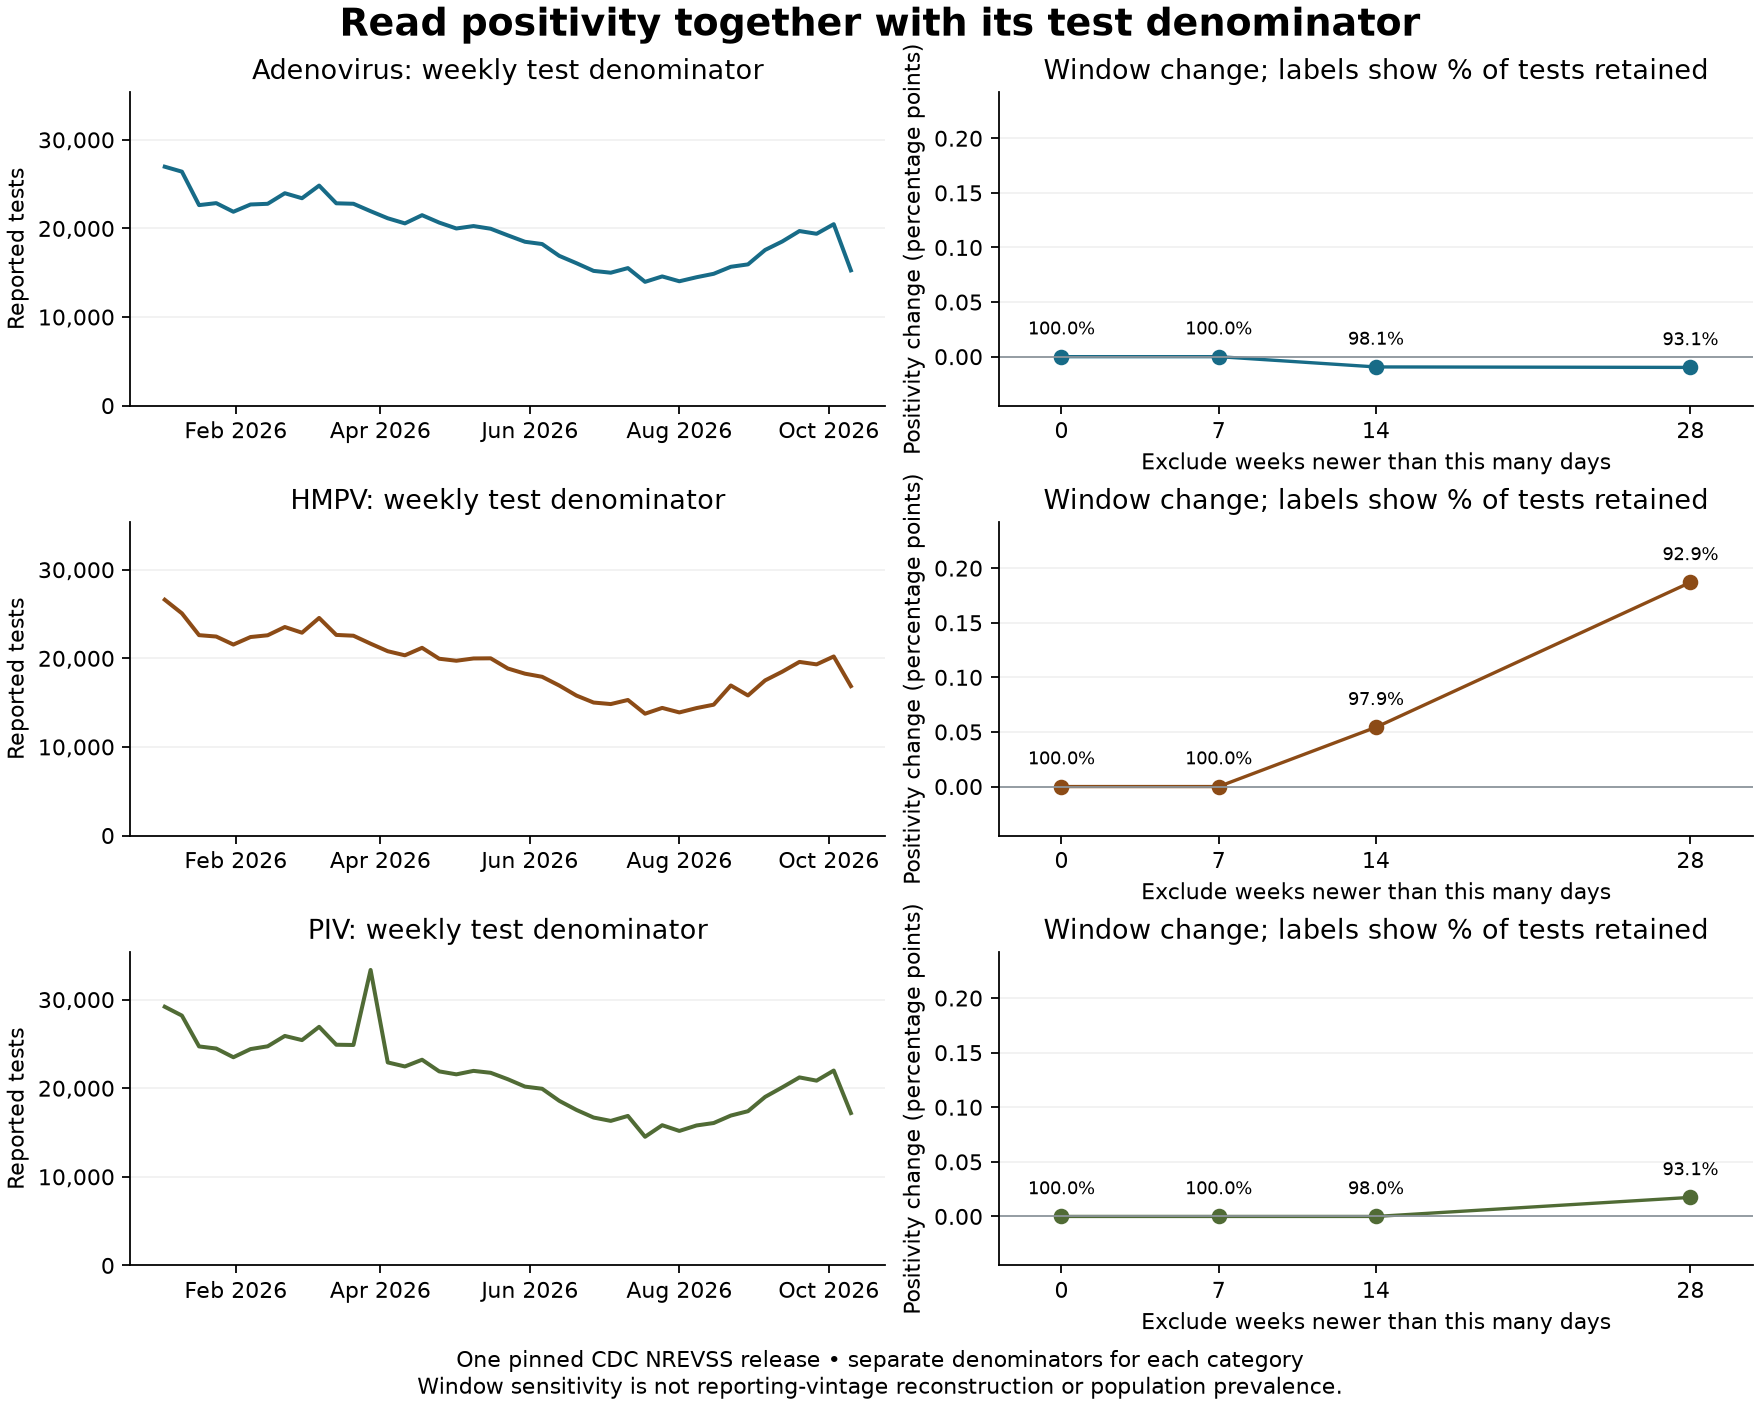
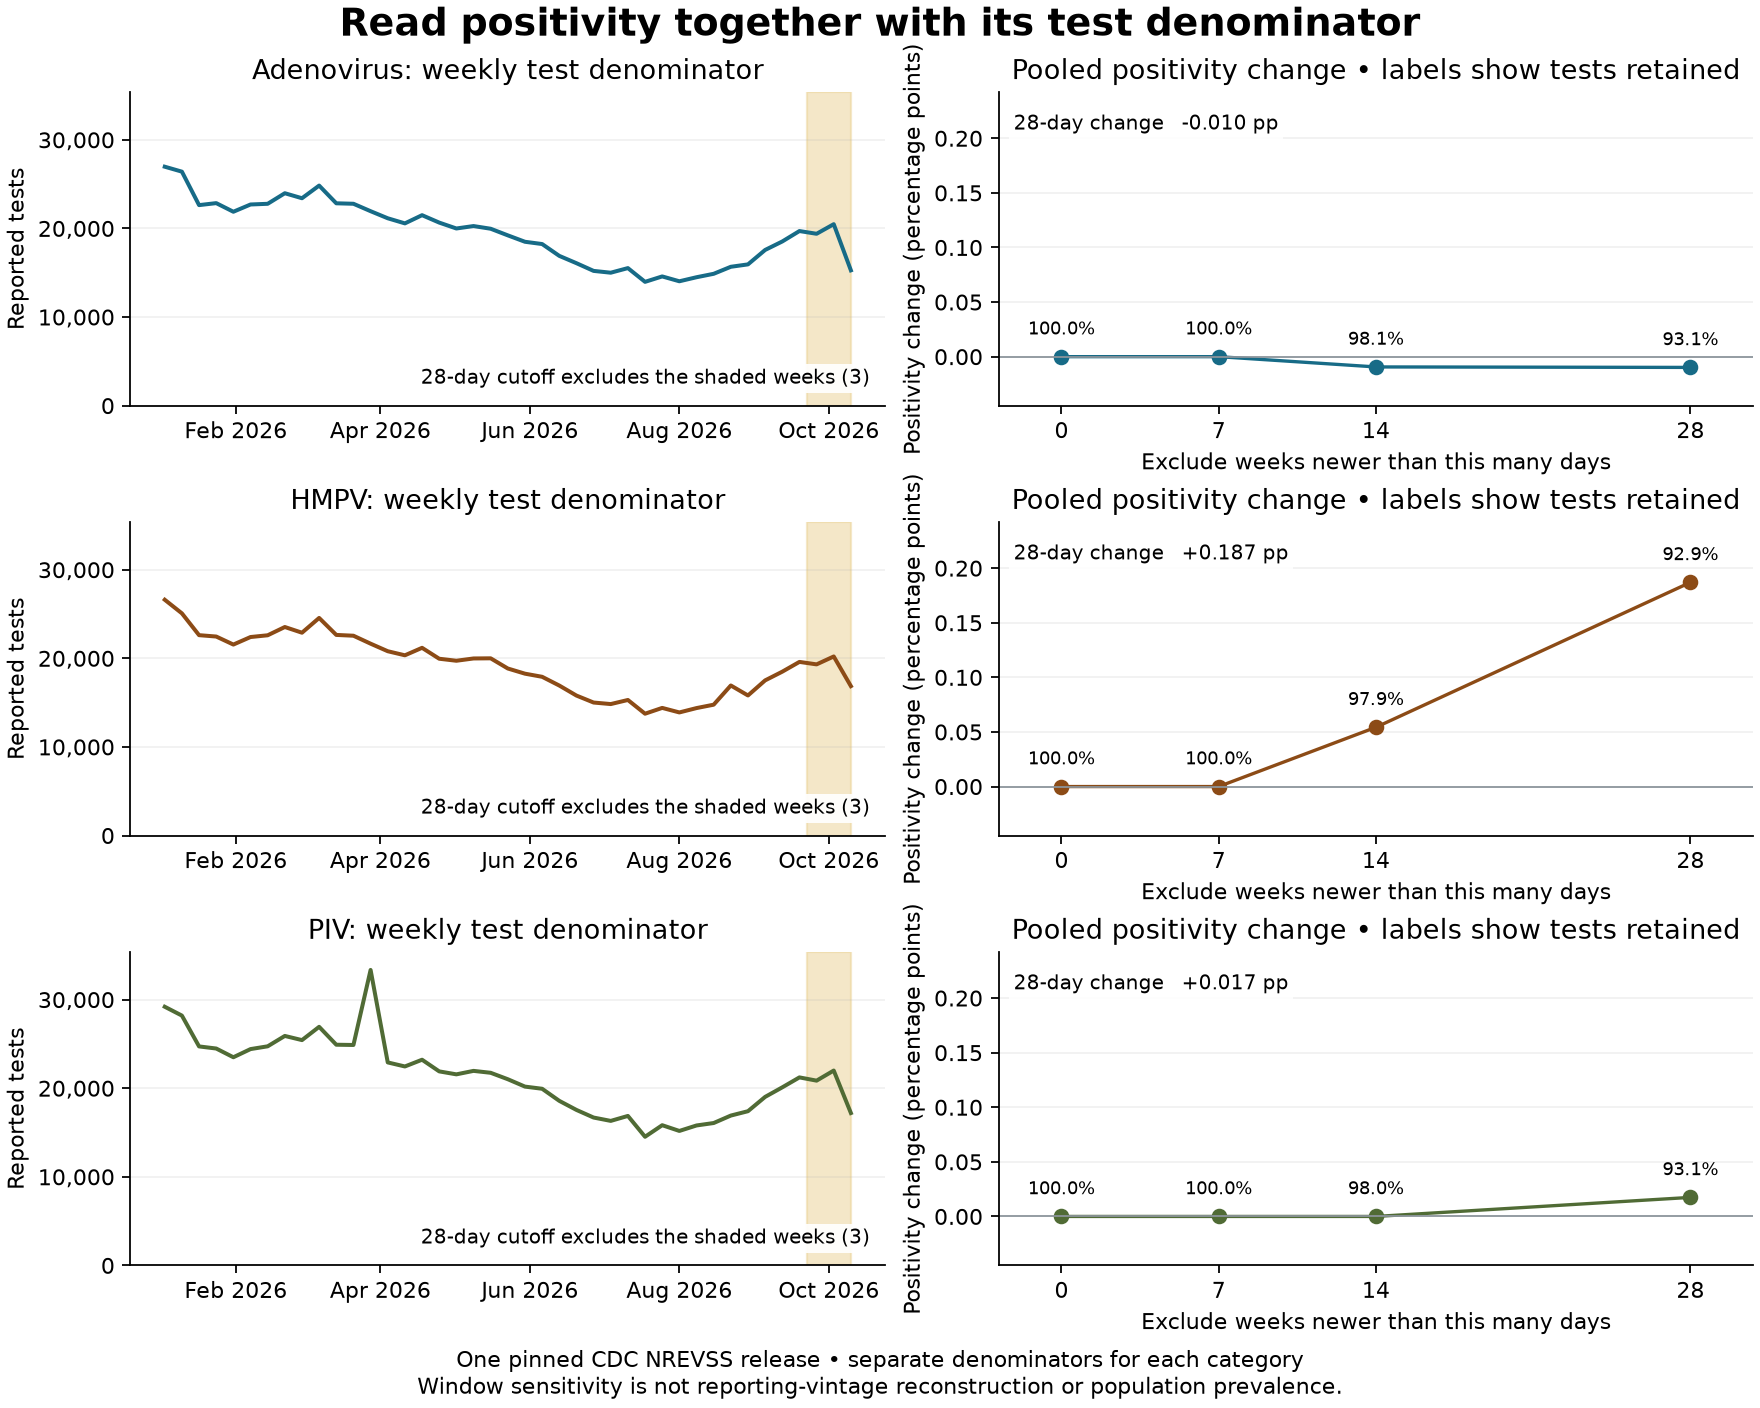
Connect the exclusion window to the observed weeks and positivity change

diff --git a/src/plot_denominator_context.py b/src/plot_denominator_context.py
@@ -123,7 +123,7 @@ def load_context(directory: Path):
                     raise ValueError("Undefined denominator must remain blank")
             elif not raw[field] or not math.isfinite(float(raw[field])) or not math.isclose(float(raw[field]), expected, abs_tol=1e-9, rel_tol=0):
                 raise ValueError(f"Window {field} disagrees with count-derived value")
-        windows[name].append({"days": days, "delta_pp": delta, "retained": retained})
+        windows[name].append({"days": days, "cutoff": cutoff, "delta_pp": delta, "retained": retained})
     if set(windows) != set(weekly):
         raise ValueError("Every series needs a sensitivity table")
     for values in windows.values():
@@ -150,6 +150,12 @@ def render(directory: Path, output: Path):
     for index, (name, rows) in enumerate(weekly.items()):
         left, right = axes[index]
         color = palette[index % len(palette)]
+        points = windows[name]
+        longest_window = points[-1]
+        excluded_weeks = sum(r["week"] > longest_window["cutoff"] for r in rows)
+        if excluded_weeks:
+            left.axvspan(max(rows[0]["week"], longest_window["cutoff"]), rows[-1]["week"],
+                         color="#ecd59b", alpha=.55, zorder=0)
         left.plot([r["week"] for r in rows], [r["tests"] for r in rows], color=color, linewidth=1.8)
         unavailable = sum(r["status"] != "usable" for r in rows)
         left.set(title=f"{name}: weekly test denominator", ylabel="Reported tests", ylim=(0, max(1, max_tests * 1.06)))
@@ -158,12 +164,19 @@ def render(directory: Path, output: Path):
         left.yaxis.set_major_formatter(FuncFormatter(lambda value, _: f"{value:,.0f}"))
         if unavailable:
             left.text(.02, .05, f"{unavailable} unusable slots shown as gaps", transform=left.transAxes)
-        points = windows[name]
         right.plot([p["days"] for p in points], [p["delta_pp"] for p in points], "o-", color=color)
         right.axhline(0, color="#8b949b", linewidth=.8)
-        right.set(title="Window change; labels show % of tests retained", ylabel="Positivity change (percentage points)",
+        right.set(title="Pooled positivity change • labels show tests retained", ylabel="Positivity change (percentage points)",
                   xlabel="Exclude weeks newer than this many days", xticks=[p["days"] for p in points], ylim=shared_limits)
         right.margins(x=.1, y=.35)
+        if excluded_weeks:
+            left.text(.98, .07, f"{longest_window['days']}-day cutoff excludes the shaded weeks ({excluded_weeks})",
+                      transform=left.transAxes, ha="right", fontsize=9,
+                      bbox=dict(facecolor="white", edgecolor="none", alpha=.92, pad=2))
+        if longest_window["delta_pp"] is not None:
+            right.text(.02, .93, f"{longest_window['days']}-day change   {longest_window['delta_pp']:+.3f} pp",
+                       transform=right.transAxes, ha="left", va="top", fontsize=9,
+                       bbox=dict(facecolor="white", edgecolor="none", alpha=.92, pad=2))
         for point in points:
             if point["delta_pp"] is not None:
                 right.annotate(f'{100 * point["retained"]:.1f}%',

diff --git a/tests/test_denominator_context.py b/tests/test_denominator_context.py
@@ -35,7 +35,9 @@ class ContextTests(unittest.TestCase):
         weeks, windows = load_context(self.path)
         self.assertEqual(sum(map(len, weeks.values())), 123)
         self.assertEqual(sum(map(len, windows.values())), 12)
-        self.assertGreater(windows["HMPV"][-1]["delta_pp"], .18)
+        longest = windows["HMPV"][-1]
+        self.assertAlmostEqual(longest["delta_pp"], .186988119)
+        self.assertEqual(sum(r["week"] > longest["cutoff"] for r in weeks["HMPV"]), 3)
 
     def test_duplicate_week_rejected(self):
         self.change("weekly_audit.csv", lambda rows: rows.append(rows[0].copy()))

diff --git a/docs/denominator-visualization.md b/docs/denominator-visualization.md
@@ -1,5 +1,7 @@
 # Put the denominator beside the comparison
 
+The shaded dates on the weekly charts show which observations the longest exclusion window drops. For the saved release, the 28-day cutoff drops three observed weeks. HMPV pooled positivity then rises by 0.187 percentage points, while 92.9% of tests remain in the denominator.
+
 The existing weekly positivity chart is supplemented by a view of **reported test counts** and the **change in pooled positivity after excluding recent weeks**. Each category retains its own denominator. The right-hand panels annotate how much of that category's test denominator remains in each window.
 
 ![Reported denominators and observation-window sensitivity](figures/denominator-context/denominator-context.svg)
